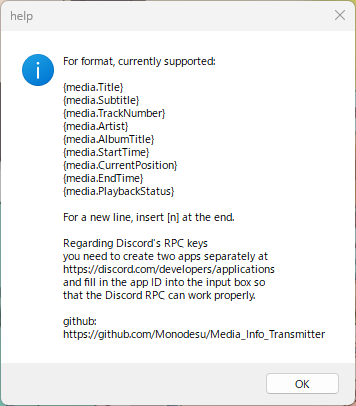
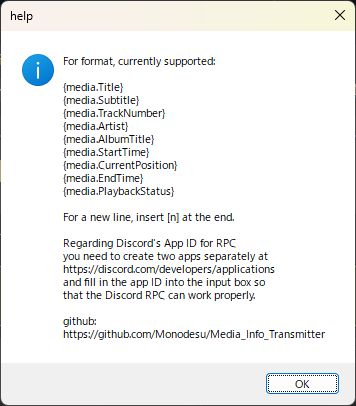
change description

diff --git a/settings.cs b/settings.cs
@@ -164,7 +164,7 @@ namespace Media_Info_To_VRChat_Discord
 
                             For a new line, insert [n] at the end.
 
-                            Regarding Discord's RPC keys
+                            Regarding Discord's App ID for RPC
                             you need to create two apps separately at
                             https://discord.com/developers/applications
                             and fill in the app ID into the input box so 

diff --git a/Form1.cs b/Form1.cs
@@ -583,7 +583,7 @@ namespace Media_Info_To_VRChat_Discord
             }
         }
 
-        private void CheckExportFolder()
+        private static void CheckExportFolder()
         {
             if (!Directory.Exists(Path.Combine(AppDomain.CurrentDomain.BaseDirectory, "export")))
             {
